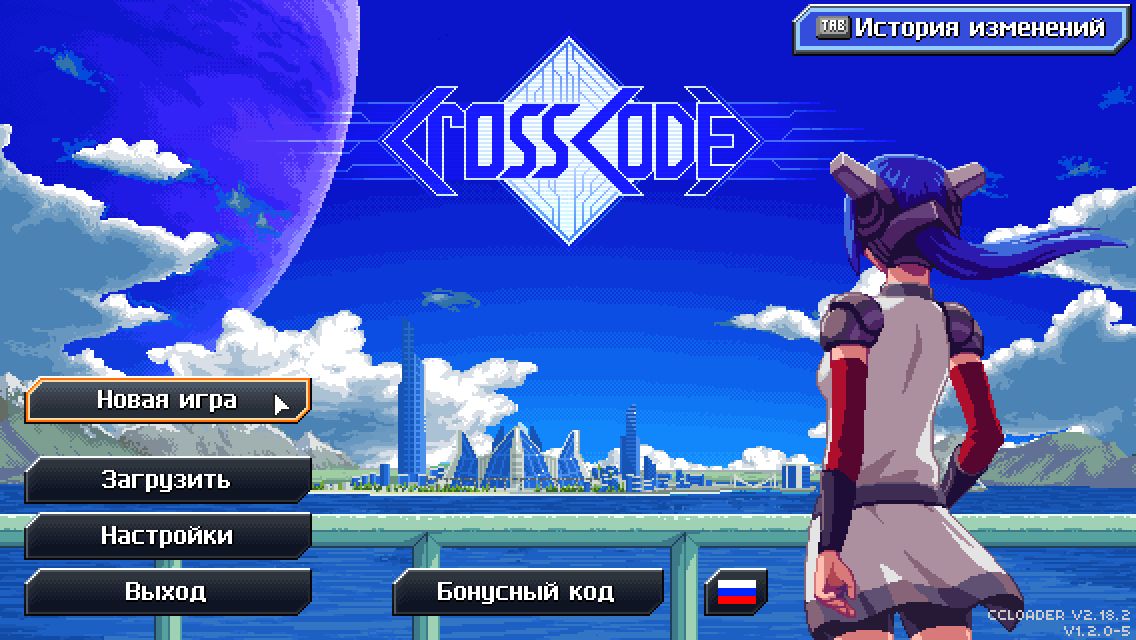
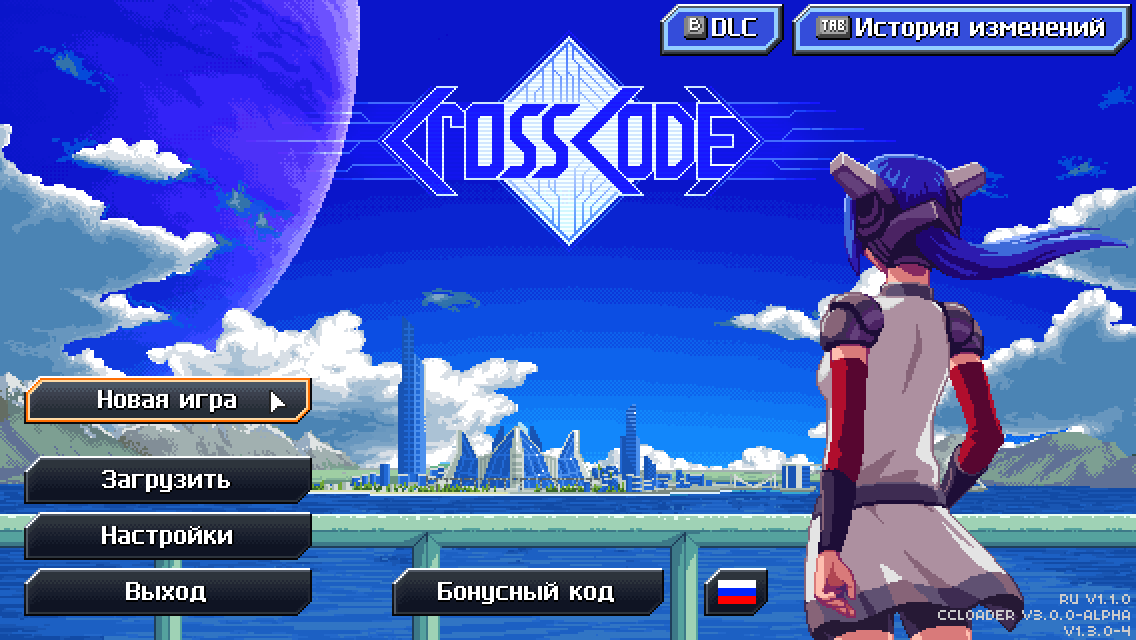
v1.1.0

Changed region(s): [[0.5546, 0.0, 0.7086, 0.0938], [0.8319, 0.9375, 1.0, 0.9688], [0.2157, 0.625, 0.2465, 0.6562]]

diff --git a/README.md b/README.md
@@ -133,8 +133,7 @@
 
 Краткие описания функционала каждого мода:
 
-- [cc-world-map-overhaul](https://github.com/dmitmel/cc-world-map-overhaul#readme) _(опционально)_ - Улучшенная карта мира
-- CCLoader display version _(не выключать!)_ - Отображает версию CCLoader (не спрашивайте, почему это отдельный мод)
+- [World map overhaul](https://github.com/dmitmel/cc-world-map-overhaul#readme) _(опционально)_ - Улучшенная карта мира
 - crosscode-ru _(не выключать!)_ - Собственно, русский перевод CrossCode и сопутствующие исправления интерфейса
 - Enhanced UI _(не выключать!)_ - Различные улучшения и общие исправления графического интерфейса пользователя (требуется для работы crosscode-ru)
 - [Localize Me](https://github.com/L-Sherry/Localize-me#readme) _(не выключать!)_ - Мод для создания дополнительных региональных настроек, языков и переводов (требуется для работы crosscode-ru)
@@ -154,11 +153,9 @@
 ├─ assets/
 │  └─ mods/
 │     ├─ cc-world-map-overhaul/
-│     ├─ ccloader-version-display/
 │     ├─ crosscode-ru/
 │     ├─ enhanced-ui/
-│     ├─ Localize-me/
-│     └─ simplify/
+│     └─ Localize-me/
 └─ ccloader/
 ```
 
@@ -211,6 +208,8 @@
 
 - Packy
 - Sandorik
+- Varenik1226
+- Щепыч
 
 ### Благодарности
 
